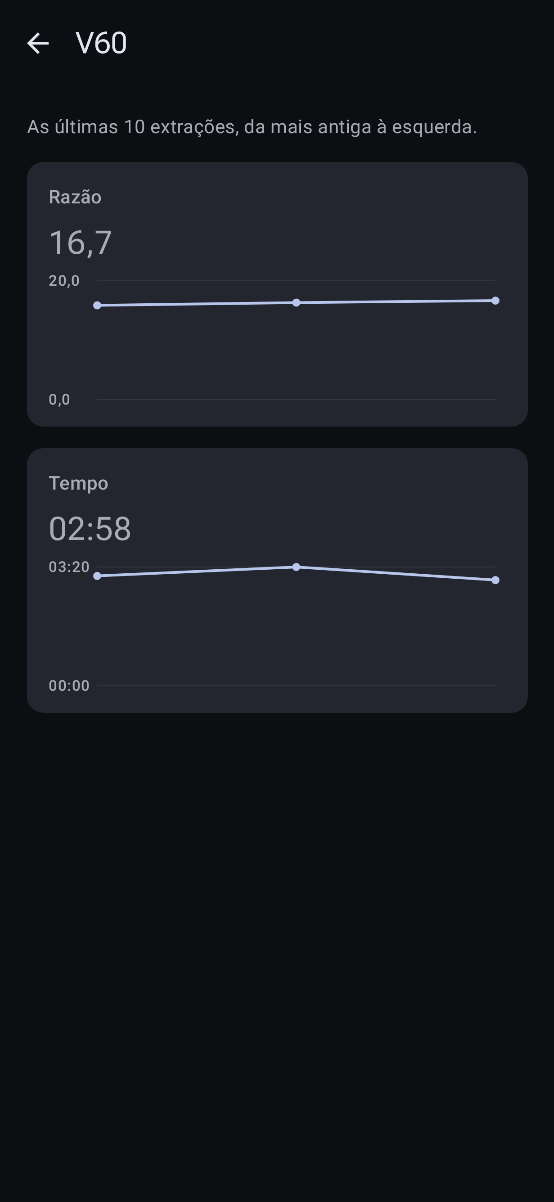
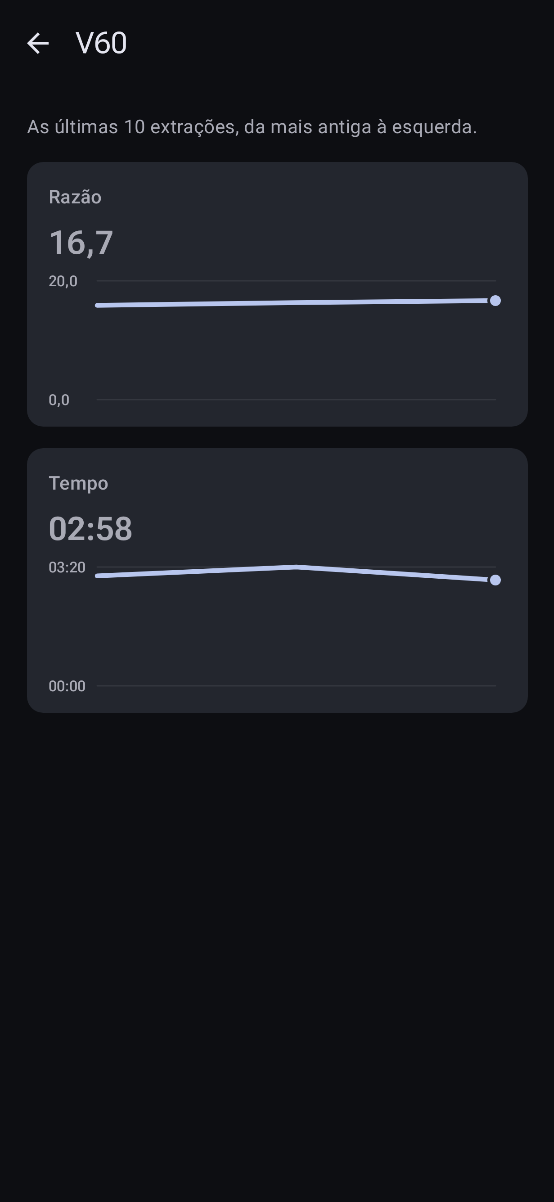
Charts in the Expressive style: thick round lines, faint grid, Roboto Flex labels
Weight, compare and trend curves are thicker with round caps and joins and draw in
from the left on a soft spring (Compose skips it when animations are off). The grid
is a few faint lines, axis labels use condensed tabular Roboto Flex, and trends mark
only the newest brew.

diff --git a/app/src/main/java/io/github/mateuxlucax/caparao/ui/brews/BrewChart.kt b/app/src/main/java/io/github/mateuxlucax/caparao/ui/brews/BrewChart.kt
@@ -13,22 +13,31 @@ import androidx.compose.foundation.layout.size
 import androidx.compose.foundation.layout.width
 import androidx.compose.foundation.shape.CircleShape
 import androidx.compose.material3.MaterialTheme
+import androidx.compose.animation.core.Animatable
+import androidx.compose.animation.core.Spring
+import androidx.compose.animation.core.spring
 import androidx.compose.material3.Text
 import androidx.compose.runtime.Composable
+import androidx.compose.runtime.LaunchedEffect
+import androidx.compose.runtime.remember
 import androidx.compose.ui.Alignment
 import androidx.compose.ui.Modifier
 import androidx.compose.ui.draw.clip
 import androidx.compose.ui.geometry.Offset
 import androidx.compose.ui.graphics.Color
 import androidx.compose.ui.graphics.Path
+import androidx.compose.ui.graphics.PathMeasure
 import androidx.compose.ui.graphics.StrokeCap
 import androidx.compose.ui.graphics.StrokeJoin
 import androidx.compose.ui.graphics.drawscope.Stroke
 import androidx.compose.ui.text.TextMeasurer
+import androidx.compose.ui.text.TextStyle
 import androidx.compose.ui.text.drawText
 import androidx.compose.ui.text.rememberTextMeasurer
 import androidx.compose.ui.unit.dp
+import androidx.compose.ui.unit.sp
 import io.github.mateuxlucax.caparao.model.BrewSample
+import io.github.mateuxlucax.caparao.ui.theme.flex
 
 /**
  * Weight (left axis) and flow (right axis) over time, drawn on a Canvas (docs/adr/0013-canvas-charts.md). The axes
@@ -41,9 +50,10 @@ fun BrewChart(samples: List<BrewSample>, durationMs: Long, weightLabel: String, 
     val timeAxis = ChartScale.timeAxis(durationMs)
     val weightColor = MaterialTheme.colorScheme.primary
     val flowColor = MaterialTheme.colorScheme.tertiary
-    val grid = MaterialTheme.colorScheme.outlineVariant
-    val labelStyle = MaterialTheme.typography.labelSmall.copy(color = MaterialTheme.colorScheme.onSurfaceVariant)
+    val grid = chartGridColor()
+    val labelStyle = chartLabelStyle()
     val measurer = rememberTextMeasurer()
+    val drawIn = rememberDrawIn(samples.size)
     Column(modifier) {
         Canvas(Modifier.fillMaxWidth().height(220.dp)) {
             val left = 36.dp.toPx()
@@ -55,7 +65,7 @@ fun BrewChart(samples: List<BrewSample>, durationMs: Long, weightLabel: String, 
             fun yFlow(f: Double) = bottom - (bottom - top) * flowAxis.fraction(f).toFloat()
             weightAxis.ticks.forEach { tick ->
                 val y = yWeight(tick)
-                drawLine(grid, Offset(left, y), Offset(right, y), strokeWidth = 1f)
+                drawLine(grid, Offset(left, y), Offset(right, y), strokeWidth = 1.dp.toPx(), cap = StrokeCap.Round)
                 label(measurer, tick.toInt().toString(), Offset(0f, y), labelStyle)
             }
             flowAxis.ticks.forEachIndexed { i, tick ->
@@ -66,8 +76,8 @@ fun BrewChart(samples: List<BrewSample>, durationMs: Long, weightLabel: String, 
                 label(measurer, "${tick.toInt()}s", Offset(x((tick * 1000).toLong()) - 8.dp.toPx(), bottom + 12.dp.toPx()), labelStyle)
             }
             if (samples.size >= 2) {
-                drawCurve(samples.map { Offset(x(it.atMs), yFlow(it.flowGramsPerSecond)) }, flowColor, 2.dp.toPx())
-                drawCurve(samples.map { Offset(x(it.atMs), yWeight(it.weightGrams)) }, weightColor, 3.dp.toPx())
+                drawCurve(samples.map { Offset(x(it.atMs), yFlow(it.flowGramsPerSecond)) }, flowColor, 2.5.dp.toPx(), drawIn.value)
+                drawCurve(samples.map { Offset(x(it.atMs), yWeight(it.weightGrams)) }, weightColor, 4.dp.toPx(), drawIn.value)
             }
         }
         Spacer(Modifier.height(8.dp))
@@ -81,15 +91,39 @@ fun BrewChart(samples: List<BrewSample>, durationMs: Long, weightLabel: String, 
 
 internal fun trim(value: Double) = if (value % 1.0 == 0.0) value.toInt().toString() else value.toString()
 
-internal fun androidx.compose.ui.graphics.drawscope.DrawScope.label(measurer: TextMeasurer, text: String, at: Offset, style: androidx.compose.ui.text.TextStyle) {
+/** Axis labels in Roboto Flex, slightly condensed with tabular figures, so the numbers line up and stay quiet. */
+@Composable
+internal fun chartLabelStyle(): TextStyle = flex(weight = 500, width = 90).copy(fontSize = 11.sp, color = MaterialTheme.colorScheme.onSurfaceVariant)
+
+/** A few faint horizontal lines and nothing else: the curves carry the chart. */
+@Composable
+internal fun chartGridColor(): Color = MaterialTheme.colorScheme.outlineVariant.copy(alpha = 0.5f)
+
+/**
+ * 0 to 1 on a soft spring, restarted when [key] changes: the share of each curve drawn, so lines draw in from the left.
+ * Compose jumps straight to 1 when animations are off.
+ */
+@Composable
+internal fun rememberDrawIn(key: Any): Animatable<Float, *> {
+    val progress = remember(key) { Animatable(0f) }
+    LaunchedEffect(key) { progress.animateTo(1f, spring(Spring.DampingRatioNoBouncy, Spring.StiffnessVeryLow)) }
+    return progress
+}
+
+internal fun androidx.compose.ui.graphics.drawscope.DrawScope.label(measurer: TextMeasurer, text: String, at: Offset, style: TextStyle) {
     val layout = measurer.measure(text, style)
     drawText(layout, topLeft = Offset(at.x, at.y - layout.size.height / 2f))
 }
 
-internal fun androidx.compose.ui.graphics.drawscope.DrawScope.drawCurve(points: List<Offset>, color: Color, width: Float) {
-    val path = Path().apply {
+/** A thick polyline with round caps and joins, [progress] of it drawn from the first point. */
+internal fun androidx.compose.ui.graphics.drawscope.DrawScope.drawCurve(points: List<Offset>, color: Color, width: Float, progress: Float = 1f) {
+    var path = Path().apply {
         moveTo(points.first().x, points.first().y)
         points.drop(1).forEach { lineTo(it.x, it.y) }
+    }
+    if (progress < 1f) {
+        val measure = PathMeasure().apply { setPath(path, false) }
+        path = Path().also { measure.getSegment(0f, measure.length * progress.coerceIn(0f, 1f), it, true) }
     }
     drawPath(path, color, style = Stroke(width, cap = StrokeCap.Round, join = StrokeJoin.Round))
 }

diff --git a/app/src/main/java/io/github/mateuxlucax/caparao/ui/brews/TrendsScreen.kt b/app/src/main/java/io/github/mateuxlucax/caparao/ui/brews/TrendsScreen.kt
@@ -22,6 +22,7 @@ import androidx.compose.runtime.Composable
 import androidx.compose.runtime.getValue
 import androidx.compose.ui.Modifier
 import androidx.compose.ui.geometry.Offset
+import androidx.compose.ui.graphics.StrokeCap
 import androidx.compose.ui.platform.LocalConfiguration
 import androidx.compose.ui.res.painterResource
 import androidx.compose.ui.res.stringResource
@@ -31,6 +32,7 @@ import androidx.lifecycle.compose.collectAsStateWithLifecycle
 import io.github.mateuxlucax.caparao.R
 import io.github.mateuxlucax.caparao.ui.components.label
 import io.github.mateuxlucax.caparao.ui.format.Format
+import io.github.mateuxlucax.caparao.ui.theme.flex
 
 /** Ratio and total time over the last brews of a recipe, oldest on the left (docs/adr/0022-compare-and-trends.md). */
 @OptIn(ExperimentalMaterial3Api::class)
@@ -70,13 +72,15 @@ fun TrendsScreen(viewModel: TrendsViewModel, onClose: () -> Unit) {
 private fun TrendCard(title: String, values: List<Double>, minimum: Double, format: (Double) -> String) {
     val axis = ChartScale.axis(values.maxOrNull() ?: 0.0, minimum)
     val color = MaterialTheme.colorScheme.primary
-    val grid = MaterialTheme.colorScheme.outlineVariant
-    val labelStyle = MaterialTheme.typography.labelSmall.copy(color = MaterialTheme.colorScheme.onSurfaceVariant)
+    val grid = chartGridColor()
+    val labelStyle = chartLabelStyle()
     val measurer = rememberTextMeasurer()
+    val drawIn = rememberDrawIn(values)
+    val surface = MaterialTheme.colorScheme.surfaceContainerHighest
     Card(Modifier.fillMaxWidth()) {
         Column(Modifier.padding(16.dp), verticalArrangement = Arrangement.spacedBy(8.dp)) {
             Text(title, style = MaterialTheme.typography.labelLarge, color = MaterialTheme.colorScheme.onSurfaceVariant)
-            values.lastOrNull()?.let { Text(format(it), style = MaterialTheme.typography.headlineSmall) }
+            values.lastOrNull()?.let { Text(format(it), style = MaterialTheme.typography.headlineSmall.merge(flex(weight = 600))) }
             Canvas(Modifier.fillMaxWidth().height(96.dp)) {
                 val left = 36.dp.toPx()
                 val right = size.width - 8.dp.toPx()
@@ -85,12 +89,16 @@ private fun TrendCard(title: String, values: List<Double>, minimum: Double, form
                 fun x(i: Int) = if (values.size < 2) (left + right) / 2 else left + (right - left) * i / (values.size - 1)
                 fun y(v: Double) = bottom - (bottom - top) * axis.fraction(v).toFloat()
                 listOf(0.0, axis.max).forEach { tick ->
-                    drawLine(grid, Offset(left, y(tick)), Offset(right, y(tick)), strokeWidth = 1f)
+                    drawLine(grid, Offset(left, y(tick)), Offset(right, y(tick)), strokeWidth = 1.dp.toPx(), cap = StrokeCap.Round)
                     label(measurer, format(tick), Offset(0f, y(tick)), labelStyle)
                 }
                 val points = values.mapIndexed { i, v -> Offset(x(i), y(v)) }
-                if (points.size >= 2) drawCurve(points, color, 2.dp.toPx())
-                points.forEach { drawCircle(color, 3.dp.toPx(), it) }
+                if (points.size >= 2) drawCurve(points, color, 3.5.dp.toPx(), drawIn.value)
+                // Only the newest brew gets a dot: a ring in the card's colour around a solid centre.
+                points.lastOrNull()?.takeIf { drawIn.value >= 1f || points.size < 2 }?.let {
+                    drawCircle(surface, 6.dp.toPx(), it)
+                    drawCircle(color, 4.dp.toPx(), it)
+                }
             }
         }
     }

diff --git a/app/src/main/java/io/github/mateuxlucax/caparao/ui/brews/CompareScreen.kt b/app/src/main/java/io/github/mateuxlucax/caparao/ui/brews/CompareScreen.kt
@@ -24,6 +24,7 @@ import androidx.compose.runtime.getValue
 import androidx.compose.ui.Modifier
 import androidx.compose.ui.geometry.Offset
 import androidx.compose.ui.graphics.Color
+import androidx.compose.ui.graphics.StrokeCap
 import androidx.compose.ui.platform.LocalConfiguration
 import androidx.compose.ui.res.painterResource
 import androidx.compose.ui.res.stringResource
@@ -75,9 +76,10 @@ fun CompareChart(brews: List<ComparedBrew>, modifier: Modifier = Modifier) {
     val weightAxis = ChartScale.axis(brews.flatMap { it.samples }.maxOfOrNull { it.weightGrams } ?: 0.0, minimum = 10.0)
     val timeAxis = ChartScale.timeAxis(brews.maxOfOrNull { it.brew.durationMs } ?: 0)
     val colors = curveColors()
-    val grid = MaterialTheme.colorScheme.outlineVariant
-    val labelStyle = MaterialTheme.typography.labelSmall.copy(color = MaterialTheme.colorScheme.onSurfaceVariant)
+    val grid = chartGridColor()
+    val labelStyle = chartLabelStyle()
     val measurer = rememberTextMeasurer()
+    val drawIn = rememberDrawIn(brews.map { it.brew.id })
     Canvas(modifier.fillMaxWidth().height(220.dp)) {
         val left = 36.dp.toPx()
         val right = size.width - 12.dp.toPx()
@@ -86,7 +88,7 @@ fun CompareChart(brews: List<ComparedBrew>, modifier: Modifier = Modifier) {
         fun x(ms: Long) = left + (right - left) * timeAxis.fraction(ms / 1000.0).toFloat()
         fun y(g: Double) = bottom - (bottom - top) * weightAxis.fraction(g).toFloat()
         weightAxis.ticks.forEach { tick ->
-            drawLine(grid, Offset(left, y(tick)), Offset(right, y(tick)), strokeWidth = 1f)
+            drawLine(grid, Offset(left, y(tick)), Offset(right, y(tick)), strokeWidth = 1.dp.toPx(), cap = StrokeCap.Round)
             label(measurer, tick.toInt().toString(), Offset(0f, y(tick)), labelStyle)
         }
         timeAxis.ticks.forEach { tick ->
@@ -94,7 +96,7 @@ fun CompareChart(brews: List<ComparedBrew>, modifier: Modifier = Modifier) {
         }
         brews.forEachIndexed { i, compared ->
             if (compared.samples.size >= 2) {
-                drawCurve(compared.samples.map { Offset(x(it.atMs), y(it.weightGrams)) }, colors[i % colors.size], 2.5.dp.toPx())
+                drawCurve(compared.samples.map { Offset(x(it.atMs), y(it.weightGrams)) }, colors[i % colors.size], 3.5.dp.toPx(), drawIn.value)
             }
         }
     }
